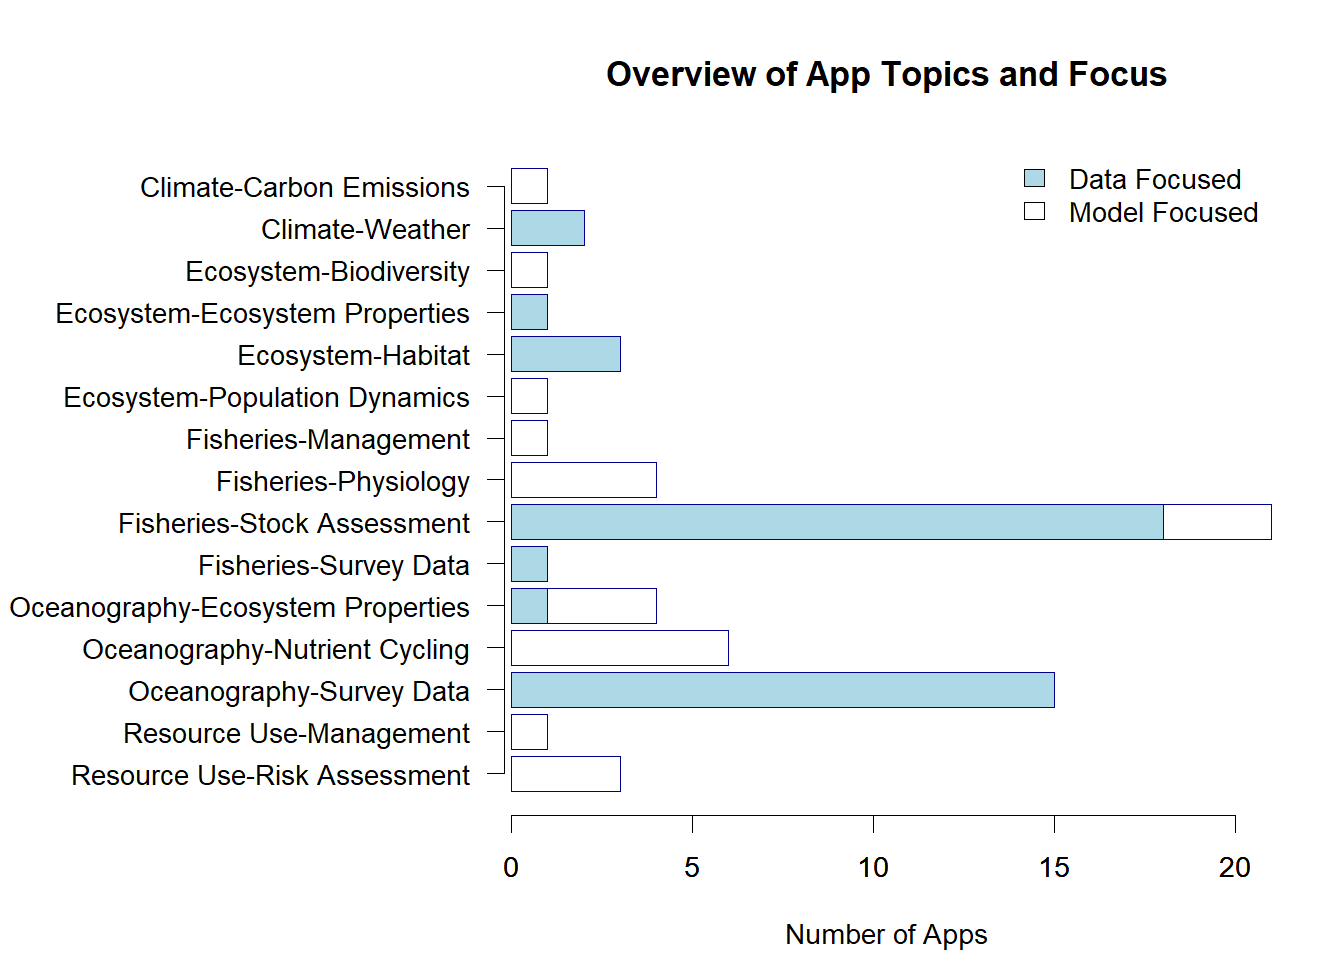
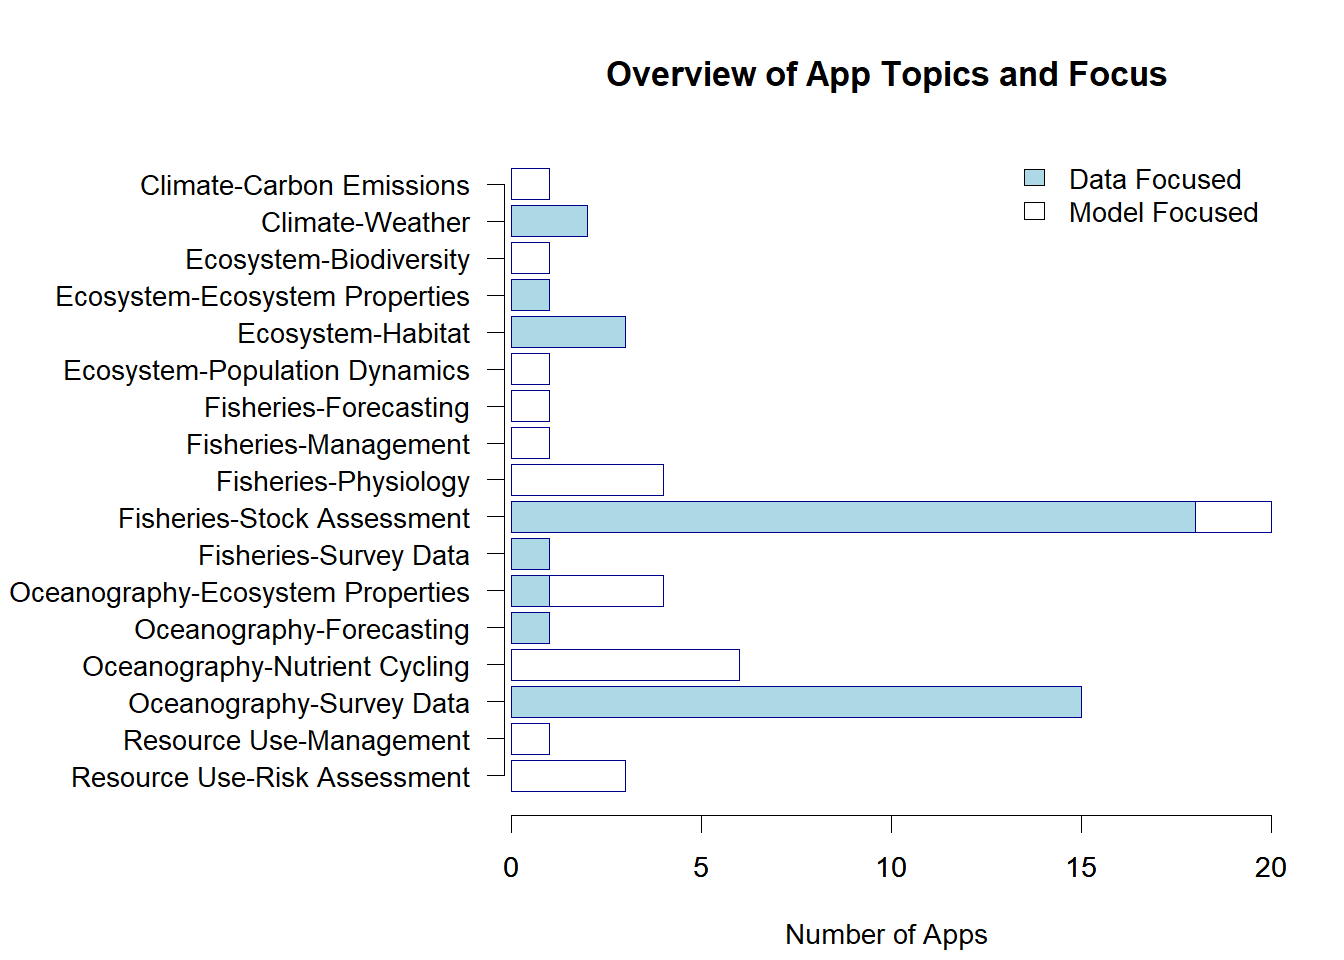
added apps to inventory

diff --git a/README.md b/README.md
@@ -39,5 +39,5 @@ GreyFish currently covers:
 
 * **18,284** reports published since 1959 by 6 agencies from 4 countries,
  spread over 41 report series.
-*  **65** interactive online applications (mostly in *Shiny*)
+*  **66** interactive online applications (mostly in *Shiny*)
 
